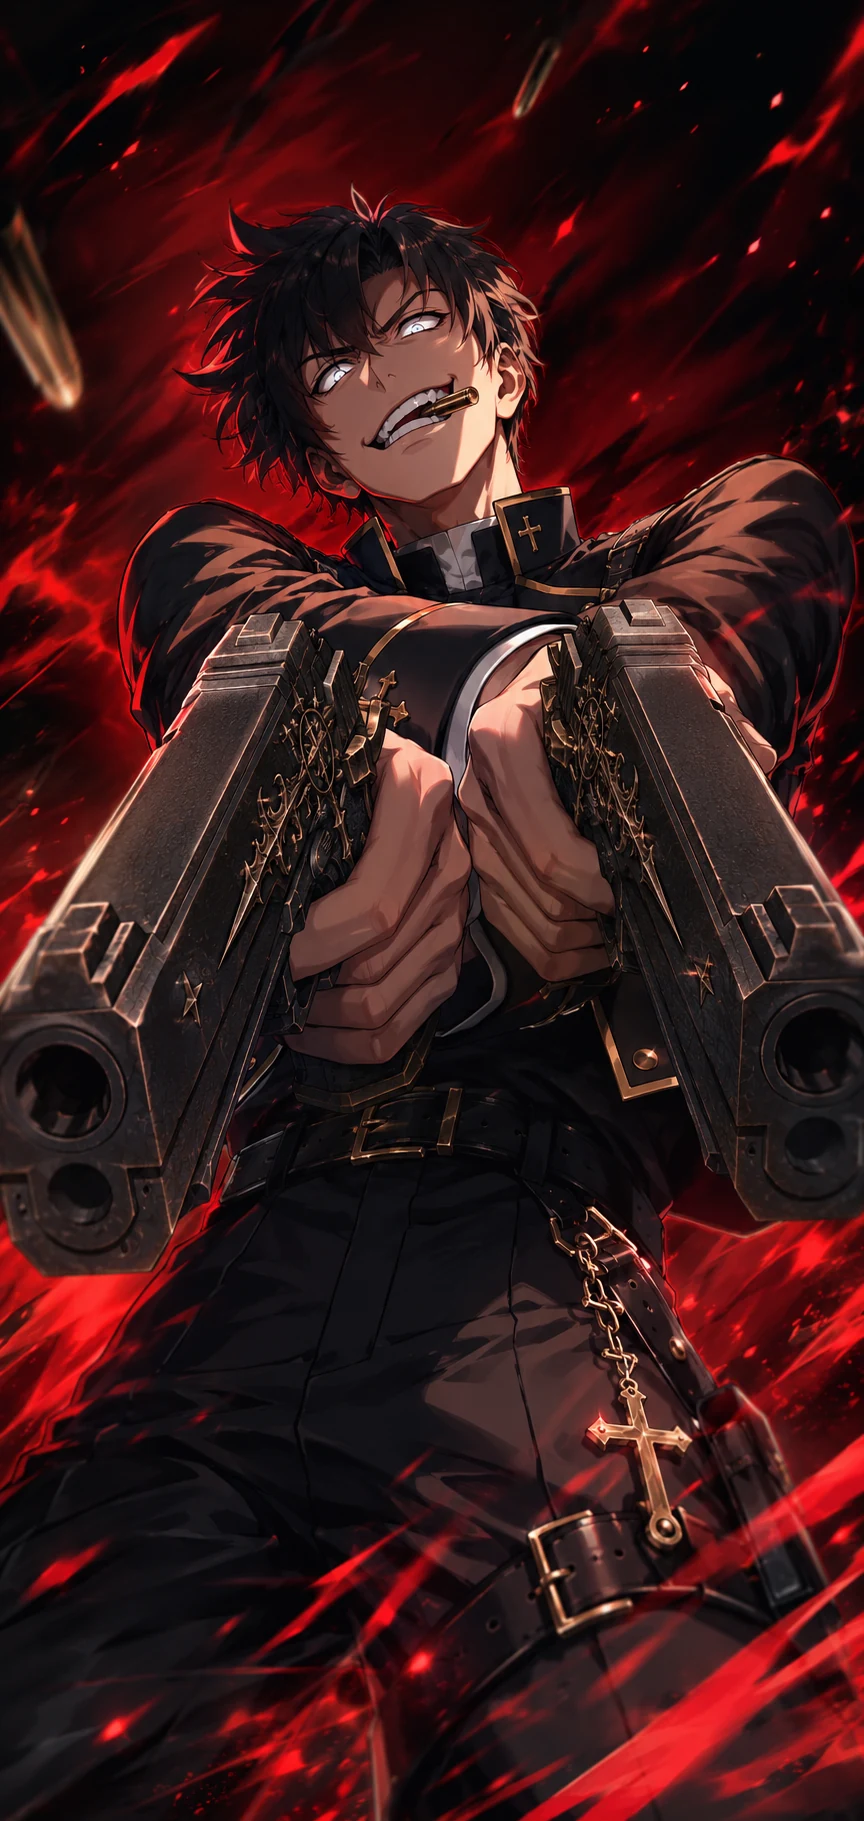
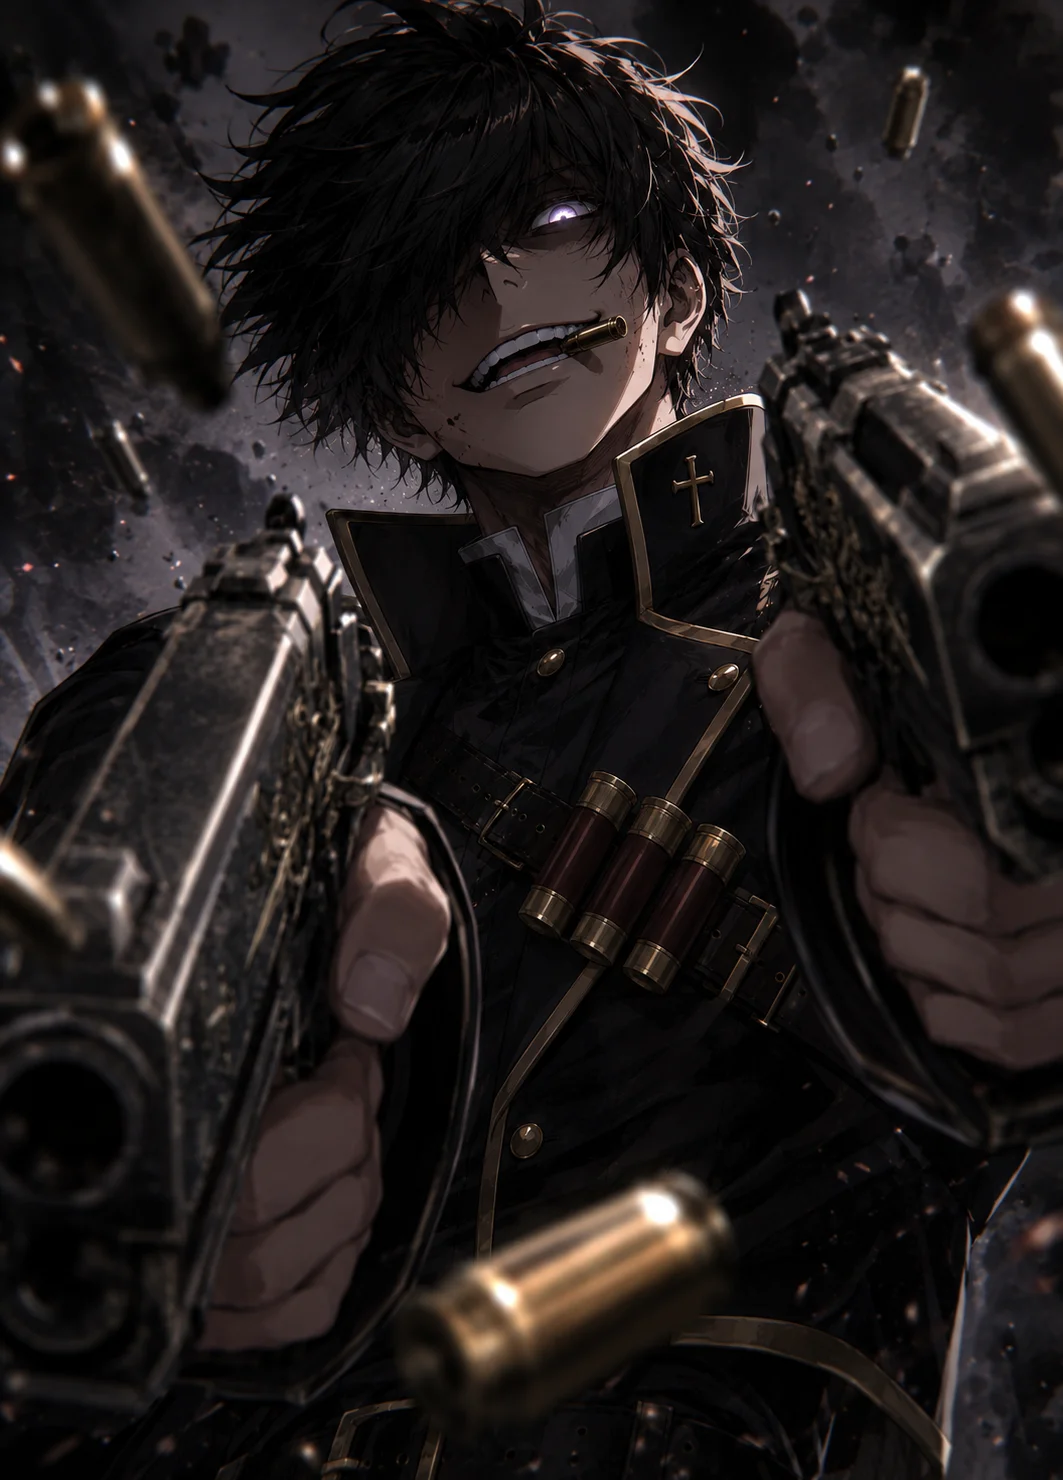
art(cutin): 破防 cut-in（CI_Torsten_Dualcrush）換 Ray 新交的圖 ver -473
Ray：「破防圖有換 更新一下」

· 新原圖 1063×1480 PNG（1.87MB）→ cwebp q85 出 115KB，同名覆蓋 ——
  `cutin_dual_torsten` 的引用路徑不變，不動 config。
· 原 PNG 依規矩移入 resources/_originals/CI/（gitignore，本機可回滾）。

diff --git a/config.js b/config.js
@@ -16,7 +16,7 @@ import { ART } from './script/speakers.js';
 
 /* 版本號：顯示於診斷 HUD（首頁連點團徽 5 下開啟），每次部署遞增尾碼——
  *  用來確認手機（尤其 iOS 主畫面 App 的頑固快取）實際跑到的是哪一版。 */
-export const VERSION = 'ver 2026.08.27-472';
+export const VERSION = 'ver 2026.08.27-473';
 
 export const GAME_CONFIG = {
 
